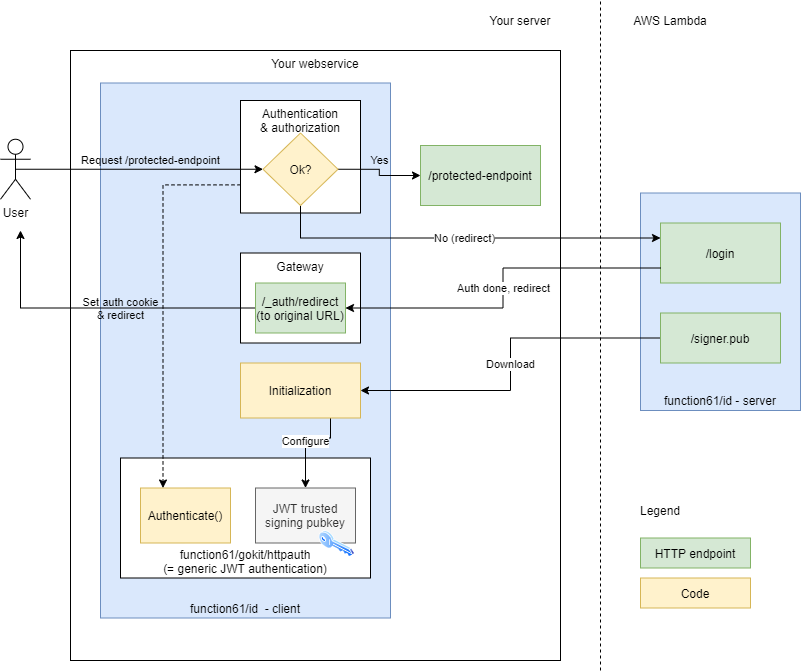
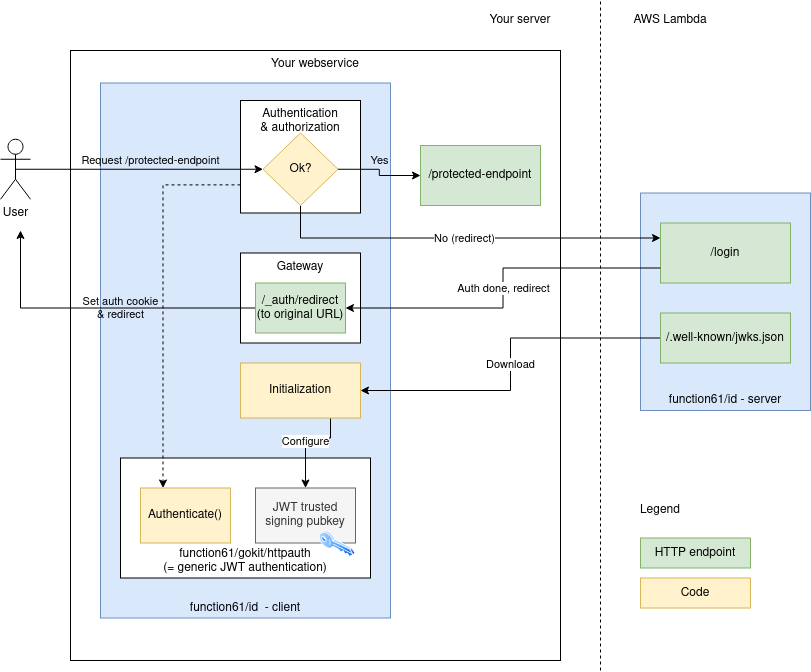
update docs

diff --git a/README.md b/README.md
@@ -1,4 +1,7 @@
-Our Single-Sign-On ("SSO") server and client library.
+Our Single-Sign-On ("SSO") server and client library for multi-tenant architectures. Usable both as:
+
+- remote SSO server
+- embeddable inside a standalone application
 
 The server works also on AWS Lambda.
 
@@ -12,6 +15,14 @@ Architecture
 ------------
 
 ![](docs/architecture.png)
+
+Essentially, your consumer services configure one base URL (like `https://function61.com/id`) as
+trusted. Based on that URL, the consumer library's gateway code knows where to send users for logging in,
+and that the trusted public keys are downloadable from https://function61.com/id/.well-known/jwks.json
+
+Each of these public keys can sign JWTs that the consumer code accepts.
+
+Our ID server implements [JSON Web Key Sets](https://auth0.com/docs/tokens/json-web-tokens/json-web-key-sets).
 
 
 Status
@@ -31,19 +42,19 @@ Setting up
 
 ```console
 $ ./id genkey
------BEGIN PRIVATE KEY-----
-...
-...
------END PRIVATE KEY-----
[1 lines of base64/hex data omitted]
 ```
+
+This is an [Ed25519](https://en.wikipedia.org/wiki/EdDSA#Ed25519) private key. Guard it well.
+Only your SSO server should be able to access it.
+
 
 ### Start ID server
 
 Before starting the server, you need to pass the signing key as ENV variable
 `SIGNING_PRIVATE_KEY`.
 
-You need to replace newlines with literal `\n`, i.e. the key from generation example
-becomes `-----BEGIN PRIVATE KEY-----\n...\n...\n-----END PRIVATE KEY-----`.
+Tip: `$ ./id genkey > dev.env`, then add `export SIGNING_PRIVATE_KEY=` in front.
 
 
 CLI
@@ -72,7 +83,13 @@ Security
 
 User's passwords are stored using PBKDF2, and never leave the SSO service - not even the hashes.
 
+Project lead is:
 
+- aware of and understands [OWASP Top Ten](https://owasp.org/www-project-top-ten/), particularly:
+	* CSRF
+	* Unvalidated redirects](https://cheatsheetseries.owasp.org/cheatsheets/Unvalidated_Redirects_and_Forwards_Cheat_Sheet.html).
+- aware of common JWT pitfalls
+- a [security-minded person](https://joonas.fi/tags/infosec/)
 
 
 Roadmap
